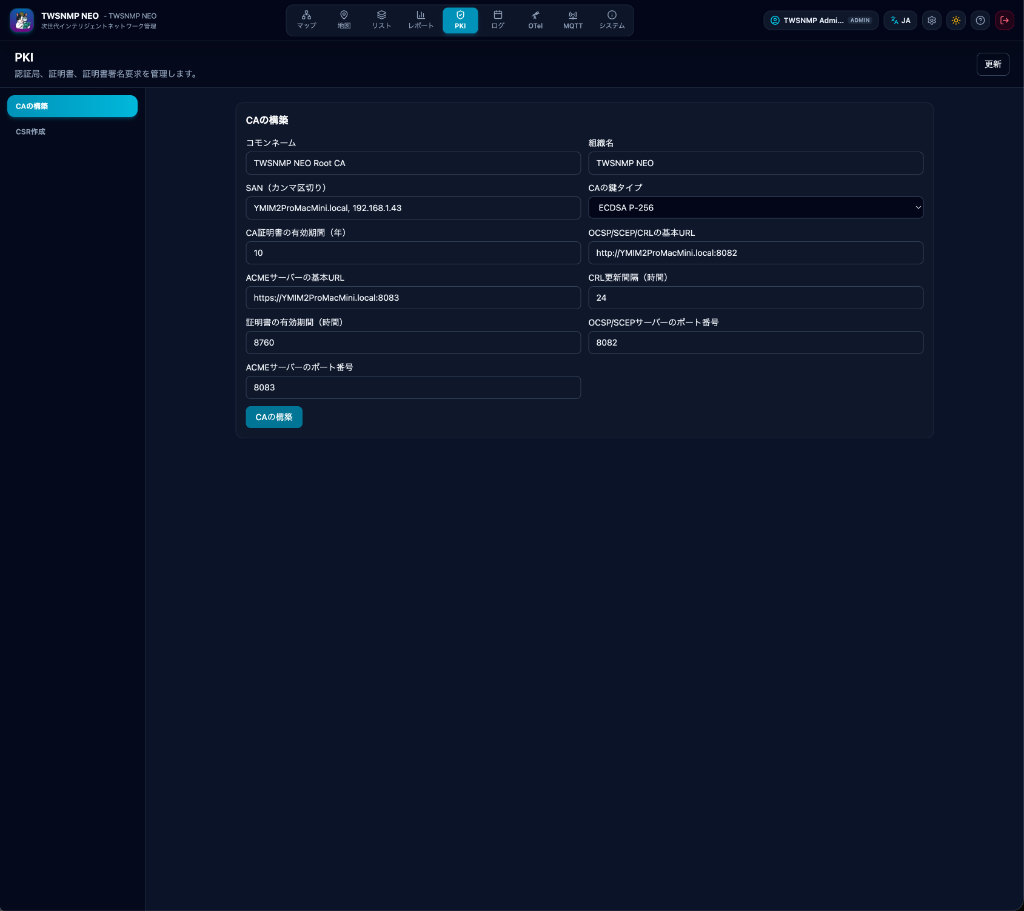
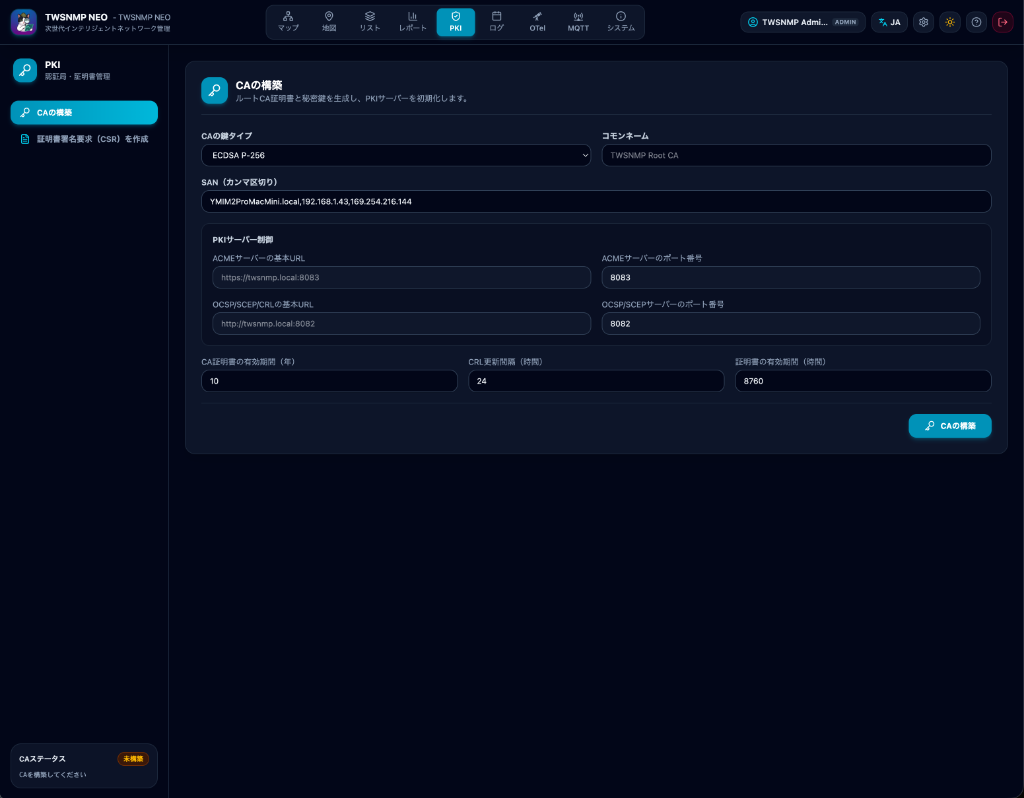
docs: update PKI documentation, specifications and screenshots

diff --git a/SPEC.md b/SPEC.md
@@ -216,7 +216,8 @@ The application provides a top navbar (or collapsible sidebar) allowing users to
      - **AI Anomaly**: AI anomaly score reporting strictly aligned with TWSNMP FK (`AIList`). Displays pollings configured with log mode "異常検知あり" (`LogMode == LogModeAI`). Polling editor supports algorithm selection (`iforest`, `zscore`, `lof`, `knn`, `mahalanobis`, `hotelling`, `autoencoder`, `lstm`) and vector feature columns (`VectorCols`). Table presents Anomaly score with severity emoticon icon, Node Name, Polling, Count, and Last time. Supports row selection, Heatmap/Pie/Time analytics report modal (`AIReportModal`), feature DataFrame CSV export (`/api/ai/export/:id`), and result clearing.
      - **Anomaly Detection & Alert Integration**: Periodic evaluation of entity scores and Fumble counts; triggers `EventLogEnt` (Level: "warn", Type: "report") with 1-hour duplicate suppression when deviation score drops below `ScoreThreshold` or fumble count exceeds `FumbleThreshold`.
 9. **PKI & Certificate View (`PKIView.svelte`)**:
-   - Certificate Authority (CA) status, certificate issuance inventory, and SCEP management.
+   - Left-sidebar navigation (Certificates List, CSR Creation, Certificate Issuance, Server Control, CA Setup).
+   - Certificate Authority (CA) status, certificate inventory (sorting, pagination, search, CSV export), manual issuance, and SCEP/ACME/CRL/OCSP protocol servers control.
    - Diagnostic tools (Ping, MIB Browser, gNMI, WOL) are launched as modals from Map context menu & NodeDetailModal.
 10. **System View (`SystemView.svelte`)**:
    - Fully compatible with TWSNMP FK resource monitor.
@@ -460,7 +461,7 @@ The application provides a top navbar (or collapsible sidebar) allowing users to
 * **ARP Watch Engine**: Promiscuous ARP packet snooper detecting newly connected devices, IP address changes, and ARP spoofing / conflicts.
 * **OpenTelemetry Receiver**: Ingest OTel metrics and traces via OTLP.
 * **MQTT Broker & Client**: Embedded MQTT message broker for IoT sensor ingestion and rule evaluation.
-* **PKI Engine**: Place Reports, PKI, and Logs consecutively in that order in the top navigation. A left-side menu splits PKI into CA setup and CSR creation before initialization, and Certificate Management, Server Control, and CSR Creation afterward. Certificate Management includes CA certificate download, direct or CSR-based issuance, issued certificate inventory, and CRL download. The Root CA is not created at first startup; the PKI UI provides an explicit CA setup form, SAN and endpoint configuration, and an explicit reset action. Reset removes the CA and issued-certificate inventory after confirmation. Issued certificates and revocation state persist in bbolt, settings persist in the protected PKI data directory, and CA private keys are stored separately with owner-only file permissions. The UI supports CSR/key generation in the browser and certificate issuance from a verified CSR. OCSP/SCEP/CRL and ACME listeners can be enabled, disabled, and reconfigured immediately from the UI. SCEP enrollment must validate the CSR identity and challenge against a managed node. ACME challenges must never be marked valid unless identifier control is verified.
+* **PKI Engine**: Place Reports, PKI, and Logs consecutively in that order in the top navigation. A left-side menu splits PKI into CA Setup and CSR Creation before initialization, and Certificates List, CSR Creation, Certificate Issuance, and Server Control afterward. The Certificates List includes one-click downloads for Root CA, SCEP CA, and CRL, a unified keyword search bar, column sorting, pagination, CSV export, individual PEM downloads, and revocation actions. The Root CA is not created at first startup; the PKI UI provides an explicit CA setup form (key types, SANs, endpoint URLs, ports, validity terms, CRL interval). CA destruction removes the CA and issued-certificate records after confirmation. Issued certificates and revocation state persist in bbolt (`config` and `certs` buckets). CSR and private key pairs are generated in the browser/API with ZIP package downloads, and certificate issuance from uploaded CSRs is supported directly in the UI. Built-in dedicated plain HTTP server (default port: 8082 for `/ca.pem`, `/scepca.pem`, `/crl`, `/ocsp`, `/scep`) and ACME server (TLS port: 8083) allow real-time status monitoring and runtime re-configuration. SCEP enrollment validates CSR identities and challenge passwords against managed nodes, and ACME challenges verify identifier control.
 
 ---
 

diff --git a/docs/index.md b/docs/index.md
@@ -361,14 +361,18 @@ When critical events occur, LLM-based intelligent analysis automatically summari
 
 ## 10. Built-in PKI (Certificate Authority)
 
-A complete, self-contained Private PKI system embedded directly within your network manager.
+A complete, self-contained Private PKI system embedded directly within your network manager. Modeled after the production-grade TWSNMP FC Web server architecture, it offers an intuitive left-sidebar interface with full protocol server integration.
 
 ![](./images/en/pki_root_ca.png)
 
-- **Root CA Setup**: Initialize Root CA keys and certificates securely.
-- **In-Browser CSR Builder**: Generate private keys and CSRs securely in the browser and issue signed certificates with one click.
-- **CRL & OCSP Servers**: Automated Certificate Revocation List publication and real-time OCSP validation.
-- **SCEP & ACME Automation**: Automated certificate enrollment for switches, routers, and servers via standard ACME and SCEP protocols.
+- **Root CA Setup & Management**: Generate Root CA keys and certificates securely (supporting RSA and ECDSA key curves) with explicit initialization.
+- **Certificates Inventory**: Full-featured certificate management table with unified keyword search, column sorting, pagination, CSV export, individual PEM download, and revocation actions.
+- **CSR Builder**: Simultaneously generate private keys and CSRs with immediate ZIP package downloads.
+- **Certificate Issuance**: Issue and download signed PEM certificates from uploaded CSR files.
+- **Server Control & Protocol Services**:
+  - **Plain HTTP Listener (Port 8082)**: Serves Root CA certificates (`/ca.pem`), SCEP CA certificates (`/scepca.pem`), CRL (`/crl`), OCSP (`/ocsp`), and SCEP (`/scep`) (preventing TLS bootstrap issues and circular dependencies).
+  - **ACME Listener (Port 8083)**: RFC 8555-compliant Automated Certificate Management Environment (Let's Encrypt compatible).
+  - Real-time service status monitoring and immediate runtime configuration updates.
 
 ![](./images/en/pki_cert_manager.png)
 
